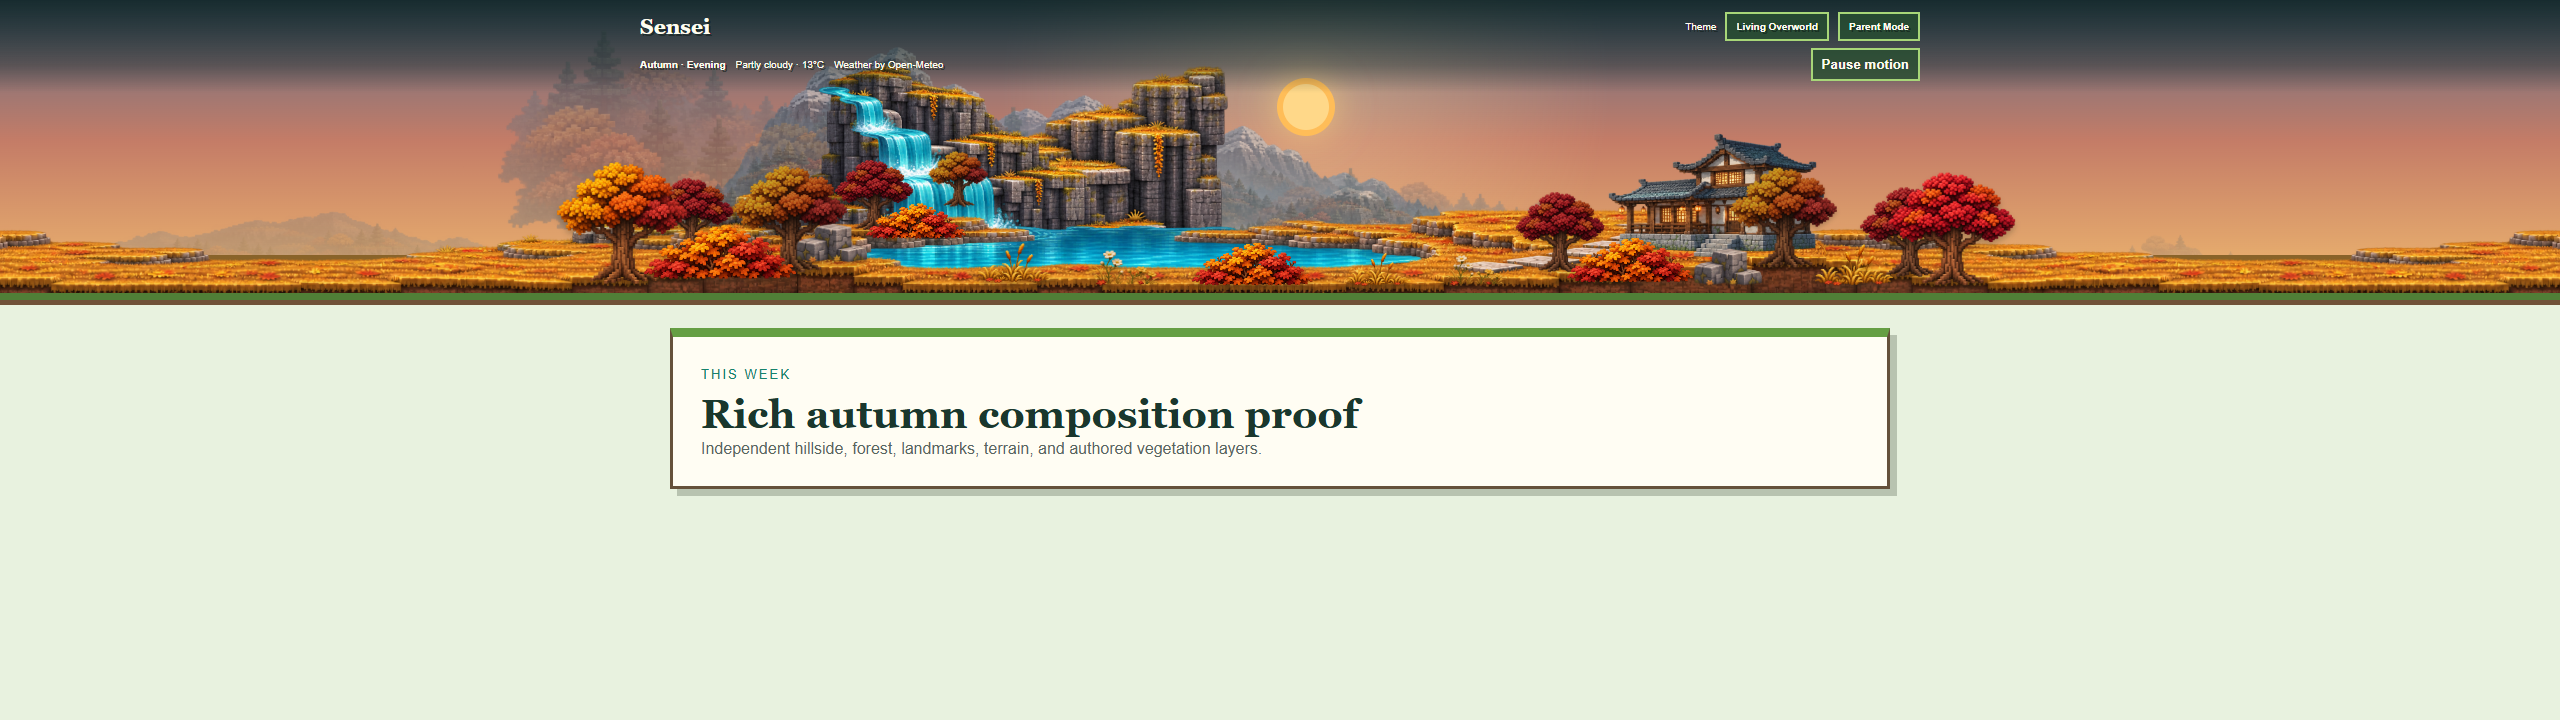
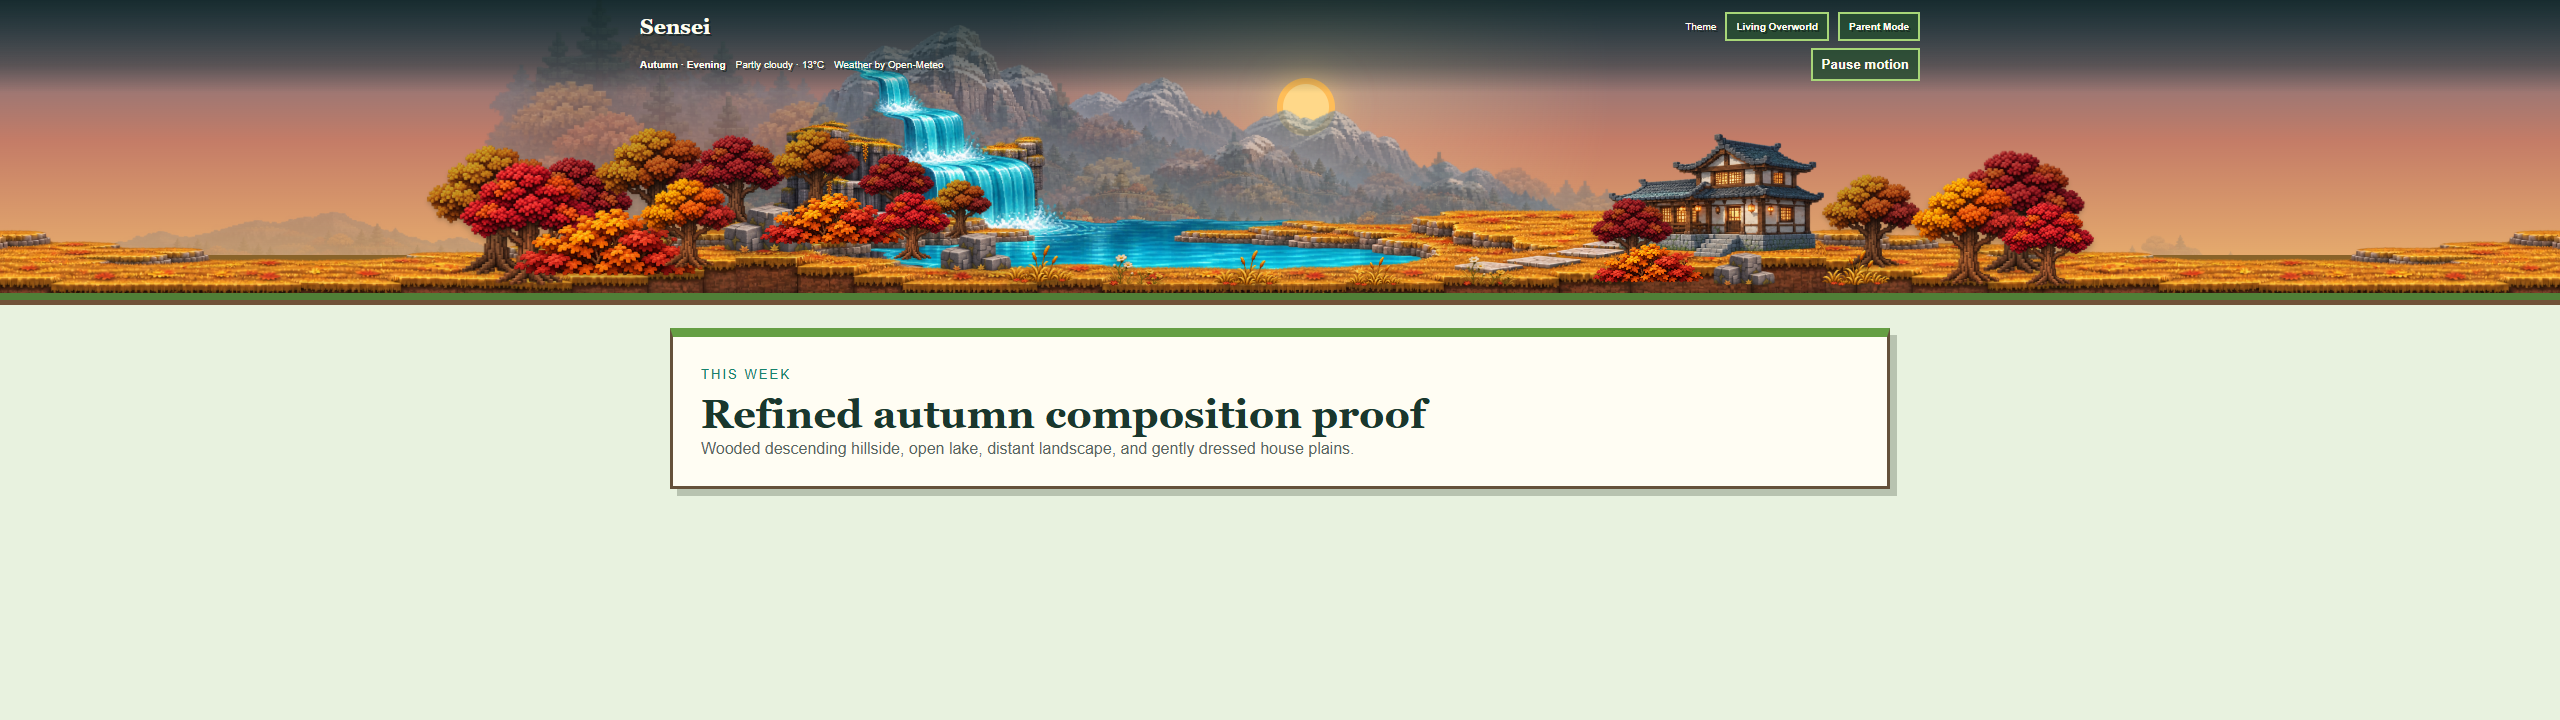
art: refine rich autumn landscape composition

Changed region(s): [[0.1562, 0.0611, 0.8125, 0.3972], [0.2812, 0.55, 0.5625, 0.6417]]

diff --git a/docs/prototypes/living-overworld-autumn-rich.html b/docs/prototypes/living-overworld-autumn-rich.html
@@ -3,7 +3,7 @@
 <head>
   <meta charset="utf-8">
   <meta name="viewport" content="width=device-width, initial-scale=1">
-  <title>Living Overworld rich autumn proof</title>
+  <title>Living Overworld refined autumn proof</title>
   <style>
     * { box-sizing: border-box; }
     html, body { margin: 0; min-height: 100%; background: #e8f2df; color: #fffdf0; font-family: Arial, sans-serif; }
@@ -12,22 +12,20 @@
     .sun { position: absolute; z-index: 1; left: 51%; top: 78px; translate: -50%; width: 58px; aspect-ratio: 1; border-radius: 50%; background: #ffd889; border: 6px solid #ffbd58; box-shadow: 0 0 35px rgba(255,214,125,.62); }
     .layer { position: absolute; height: auto; pointer-events: none; user-select: none; }
     .mountain { z-index: 2; bottom: -3px; opacity: .68; filter: saturate(.64) brightness(.82); }
-    .mountain.primary { left: 42%; width: 900px; translate: -50%; }
+    .mountain.primary { left: 45%; width: 980px; translate: -50%; }
     .mountain.left { left: -150px; bottom: -25px; width: 690px; opacity: .27; }
     .mountain.right { right: -110px; bottom: -36px; width: 620px; opacity: .2; }
-    .forest { z-index: 3; left: 41%; bottom: -4px; width: 1120px; translate: -50%; opacity: .42; filter: saturate(.72) brightness(.75); }
+    .forest { z-index: 3; left: 43%; bottom: -4px; width: 1260px; translate: -50%; opacity: .5; filter: saturate(.72) brightness(.75); }
     .ground-band { position: absolute; z-index: 3; left: 0; right: 0; bottom: 0; height: 38px; background: linear-gradient(#896329 0 18%, #6f4d2a 19% 34%, #4c351f 35%); }
-    .hillside { z-index: 4; left: calc(50% - 880px); bottom: -6px; width: 850px; }
-    .water-system { position: absolute; z-index: 5; left: calc(50% - 520px); bottom: 0; width: 760px; aspect-ratio: 3 / 1; }
-    .water-system img { position: absolute; inset: 0; width: 100%; height: 100%; object-fit: contain; }
-    .water-system .outcrop { z-index: 1; }
-    .water-system .water { z-index: 2; }
+    .hillside { z-index: 4; left: calc(50% - 800px); bottom: -2px; width: 580px; }
+    .outcrop { z-index: 5; left: calc(50% - 545px); bottom: 1px; width: 570px; }
+    .water { z-index: 6; left: calc(50% - 510px); bottom: -2px; width: 860px; }
     .meadow { z-index: 6; bottom: -20px; width: 1100px; }
     .meadow.left { right: calc(50% + 500px); }
     .meadow.right { left: calc(50% + 500px); transform: scaleX(-1); }
     .ground { z-index: 7; left: 50%; bottom: -20px; width: min(1100px, 100vw); translate: -50%; }
     .house { z-index: 8; right: calc(50% - 560px); bottom: -20px; width: 760px; }
-    .object-stage { position: absolute; z-index: 9; inset-block: 0; left: 50%; width: min(1400px, 100vw); translate: -50%; pointer-events: none; }
+    .object-stage { position: absolute; z-index: 9; inset-block: 0; left: 50%; width: min(1600px, 100vw); translate: -50%; pointer-events: none; }
     .scene-object { position: absolute; left: var(--x); bottom: var(--b); height: var(--h); width: auto; translate: -50%; filter: drop-shadow(0 4px 3px rgba(20,34,22,.24)); }
     .scene-object.back { z-index: 1; filter: brightness(.82) saturate(.84) drop-shadow(0 3px 2px rgba(20,34,22,.18)); }
     .scene-object.front { z-index: 3; }
@@ -50,8 +48,9 @@
       .mountain.left, .mountain.right { display: none; }
       .forest { left: 42%; width: 500px; bottom: -1px; opacity: .34; }
       .ground-band { height: 20px; }
-      .hillside { left: -260px; bottom: 0; width: 400px; }
-      .water-system { left: -2px; bottom: 4px; width: 390px; }
+      .hillside { left: -125px; bottom: 2px; width: 285px; }
+      .outcrop { left: -50px; bottom: 5px; width: 305px; }
+      .water { left: -8px; bottom: 2px; width: 420px; }
       .meadow { display: none; }
       .ground { width: 435px; bottom: -5px; }
       .house { right: -8px; bottom: -2px; width: 365px; }
@@ -71,7 +70,7 @@
   </style>
 </head>
 <body>
-  <section class="scene" aria-label="Rich autumn Living Overworld composition proof">
+  <section class="scene" aria-label="Refined rich autumn Living Overworld composition proof">
     <div class="sky-glow"></div><div class="sun"></div>
     <img class="layer mountain left" src="../../public/assets/living-overworld/autumn-modular/distant-a.png" alt="">
     <img class="layer mountain primary" src="../../public/assets/living-overworld/autumn-structural/mountains.png" alt="">
@@ -79,42 +78,47 @@
     <img class="layer forest" src="../../public/assets/living-overworld/autumn-rich-proof/distant-forest.png" alt="">
     <div class="ground-band"></div>
     <img class="layer hillside" src="../../public/assets/living-overworld/autumn-rich-proof/rocky-hillside.png" alt="">
-    <div class="water-system">
-      <img class="outcrop" src="../../public/assets/living-overworld/autumn-structural/waterfall-outcrop.png" alt="">
-      <img class="water" src="../../public/assets/living-overworld/autumn-structural/water-connected.png" alt="">
-    </div>
+    <img class="layer outcrop" src="../../public/assets/living-overworld/autumn-structural/waterfall-outcrop.png" alt="">
+    <img class="layer water" src="../../public/assets/living-overworld/autumn-structural/water-connected.png" alt="">
     <img class="layer meadow left" src="../../public/assets/living-overworld/autumn-structural/meadow-extension.png" alt="">
     <img class="layer meadow right" src="../../public/assets/living-overworld/autumn-structural/meadow-extension.png" alt="">
     <img class="layer ground" src="../../public/assets/living-overworld/autumn-structural/ground.png" alt="">
     <img class="layer house" src="../../public/assets/living-overworld/retreat.png" alt="">
     <div class="object-stage">
-      <img class="scene-object back desktop-detail" style="--x:8%;--b:13%;--h:78px" src="../../public/assets/living-overworld/autumn-modular/objects/tree-red.png" alt="">
-      <img class="scene-object back" style="--x:15%;--b:6%;--h:112px" src="../../public/assets/living-overworld/autumn-modular/objects/tree.png" alt="">
-      <img class="scene-object back desktop-detail" style="--x:21%;--b:21%;--h:72px" src="../../public/assets/living-overworld/autumn-modular/objects/tree-red.png" alt="">
-      <img class="scene-object back desktop-detail" style="--x:27%;--b:29%;--h:58px" src="../../public/assets/living-overworld/autumn-modular/objects/tree.png" alt="">
-      <img class="scene-object back" style="--x:70%;--b:7%;--h:82px" src="../../public/assets/living-overworld/autumn-modular/objects/tree-red.png" alt="">
-      <img class="scene-object back desktop-detail" style="--x:86%;--b:8%;--h:105px" src="../../public/assets/living-overworld/autumn-modular/objects/tree.png" alt="">
-      <img class="scene-object back desktop-detail wide-only" style="--x:95%;--b:5%;--h:92px" src="../../public/assets/living-overworld/autumn-modular/objects/tree-red.png" alt="">
+      <img class="scene-object back" style="--x:1%;--b:5%;--h:136px" src="../../public/assets/living-overworld/autumn-modular/objects/tree.png" alt="">
+      <img class="scene-object back desktop-detail" style="--x:6%;--b:11%;--h:105px" src="../../public/assets/living-overworld/autumn-modular/objects/tree-red.png" alt="">
+      <img class="scene-object back" style="--x:11%;--b:17%;--h:118px" src="../../public/assets/living-overworld/autumn-modular/objects/tree.png" alt="">
+      <img class="scene-object back desktop-detail" style="--x:16%;--b:23%;--h:92px" src="../../public/assets/living-overworld/autumn-modular/objects/tree-red.png" alt="">
+      <img class="scene-object back" style="--x:21%;--b:27%;--h:87px" src="../../public/assets/living-overworld/autumn-modular/objects/tree.png" alt="">
+      <img class="scene-object back desktop-detail" style="--x:26%;--b:24%;--h:70px" src="../../public/assets/living-overworld/autumn-modular/objects/tree-red.png" alt="">
+      <img class="scene-object back desktop-detail" style="--x:30%;--b:18%;--h:62px" src="../../public/assets/living-overworld/autumn-modular/objects/tree.png" alt="">
+      <img class="scene-object back" style="--x:72%;--b:7%;--h:76px" src="../../public/assets/living-overworld/autumn-modular/objects/tree-red.png" alt="">
+      <img class="scene-object back desktop-detail" style="--x:87%;--b:8%;--h:98px" src="../../public/assets/living-overworld/autumn-modular/objects/tree.png" alt="">
+      <img class="scene-object back wide-only" style="--x:96%;--b:6%;--h:126px" src="../../public/assets/living-overworld/autumn-modular/objects/tree-red.png" alt="">
 
-      <img class="scene-object front" style="--x:3%;--b:2%;--h:128px" src="../../public/assets/living-overworld/autumn-modular/objects/tree.png" alt="">
-      <img class="scene-object front desktop-detail" style="--x:10%;--b:4%;--h:58px" src="../../public/assets/living-overworld/autumn-modular/objects/bush.png" alt="">
-      <img class="scene-object front desktop-detail" style="--x:18%;--b:10%;--h:42px" src="../../public/assets/living-overworld/autumn-modular/objects/rock.png" alt="">
-      <img class="scene-object front desktop-detail" style="--x:24%;--b:18%;--h:38px" src="../../public/assets/living-overworld/autumn-modular/objects/bush.png" alt="">
-      <img class="scene-object front" style="--x:31%;--b:3%;--h:42px" src="../../public/assets/living-overworld/autumn-modular/objects/grass.png" alt="">
-      <img class="scene-object front" style="--x:39%;--b:2%;--h:38px" src="../../public/assets/living-overworld/autumn-modular/objects/flowers.png" alt="">
-      <img class="scene-object front desktop-detail" style="--x:48%;--b:2%;--h:46px" src="../../public/assets/living-overworld/autumn-modular/objects/bush.png" alt="">
-      <img class="scene-object front" style="--x:57%;--b:2%;--h:35px" src="../../public/assets/living-overworld/autumn-modular/objects/grass.png" alt="">
-      <img class="scene-object front desktop-detail" style="--x:64%;--b:2%;--h:33px" src="../../public/assets/living-overworld/autumn-modular/objects/flowers.png" alt="">
-      <img class="scene-object front" style="--x:75%;--b:3%;--h:48px" src="../../public/assets/living-overworld/autumn-modular/objects/bush.png" alt="">
-      <img class="scene-object front desktop-detail" style="--x:82%;--b:2%;--h:40px" src="../../public/assets/living-overworld/autumn-modular/objects/rock.png" alt="">
-      <img class="scene-object front" style="--x:91%;--b:2%;--h:44px" src="../../public/assets/living-overworld/autumn-modular/objects/grass.png" alt="">
-      <img class="scene-object front desktop-detail wide-only" style="--x:98%;--b:2%;--h:116px" src="../../public/assets/living-overworld/autumn-modular/objects/tree-red.png" alt="">
+      <img class="scene-object front" style="--x:3%;--b:2%;--h:126px" src="../../public/assets/living-overworld/autumn-modular/objects/tree-red.png" alt="">
+      <img class="scene-object front desktop-detail" style="--x:8%;--b:5%;--h:72px" src="../../public/assets/living-overworld/autumn-modular/objects/bush.png" alt="">
+      <img class="scene-object front" style="--x:13%;--b:8%;--h:94px" src="../../public/assets/living-overworld/autumn-modular/objects/tree.png" alt="">
+      <img class="scene-object front desktop-detail" style="--x:18%;--b:13%;--h:52px" src="../../public/assets/living-overworld/autumn-modular/objects/rock.png" alt="">
+      <img class="scene-object front desktop-detail" style="--x:22%;--b:16%;--h:55px" src="../../public/assets/living-overworld/autumn-modular/objects/bush.png" alt="">
+      <img class="scene-object front" style="--x:27%;--b:11%;--h:70px" src="../../public/assets/living-overworld/autumn-modular/objects/tree-red.png" alt="">
+      <img class="scene-object front desktop-detail" style="--x:31%;--b:7%;--h:42px" src="../../public/assets/living-overworld/autumn-modular/objects/rock.png" alt="">
+      <img class="scene-object front" style="--x:35%;--b:3%;--h:40px" src="../../public/assets/living-overworld/autumn-modular/objects/grass.png" alt="">
+      <img class="scene-object front" style="--x:41%;--b:2%;--h:34px" src="../../public/assets/living-overworld/autumn-modular/objects/flowers.png" alt="">
+      <img class="scene-object front desktop-detail" style="--x:48%;--b:2%;--h:38px" src="../../public/assets/living-overworld/autumn-modular/objects/grass.png" alt="">
+      <img class="scene-object front" style="--x:56%;--b:2%;--h:31px" src="../../public/assets/living-overworld/autumn-modular/objects/grass.png" alt="">
+      <img class="scene-object front desktop-detail" style="--x:63%;--b:2%;--h:32px" src="../../public/assets/living-overworld/autumn-modular/objects/flowers.png" alt="">
+      <img class="scene-object front" style="--x:73%;--b:3%;--h:42px" src="../../public/assets/living-overworld/autumn-modular/objects/bush.png" alt="">
+      <img class="scene-object front desktop-detail" style="--x:79%;--b:2%;--h:36px" src="../../public/assets/living-overworld/autumn-modular/objects/rock.png" alt="">
+      <img class="scene-object front" style="--x:86%;--b:2%;--h:38px" src="../../public/assets/living-overworld/autumn-modular/objects/grass.png" alt="">
+      <img class="scene-object front wide-only" style="--x:93%;--b:2%;--h:112px" src="../../public/assets/living-overworld/autumn-modular/objects/tree.png" alt="">
+      <img class="scene-object front desktop-detail wide-only" style="--x:98%;--b:2%;--h:85px" src="../../public/assets/living-overworld/autumn-modular/objects/tree-red.png" alt="">
     </div>
     <header class="header">
       <div class="header-main"><span class="brand">Sensei</span><div class="header-actions"><span>Theme</span><span class="control">Living Overworld</span><span class="control">Parent Mode</span></div></div>
       <div class="header-status"><strong>Autumn · Evening</strong><span>Partly cloudy · 13°C</span><span>Weather by Open-Meteo</span><button class="control motion" type="button">Pause motion</button></div>
     </header>
   </section>
-  <main><small>This week</small><h1>Rich autumn composition proof</h1><p>Independent hillside, forest, landmarks, terrain, and authored vegetation layers.</p></main>
+  <main><small>This week</small><h1>Refined autumn composition proof</h1><p>Wooded descending hillside, open lake, distant landscape, and gently dressed house plains.</p></main>
 </body>
 </html>

diff --git a/docs/LIVING_OVERWORLD_AUTUMN_REFINEMENT_HANDOFF.md b/docs/LIVING_OVERWORLD_AUTUMN_REFINEMENT_HANDOFF.md
@@ -1,0 +1,46 @@
+# Living Overworld — Autumn Composition Refinement
+
+Status: refined isolated proof ready for Product Owner visual review. Runtime integration remains unauthorized and has not occurred.
+
+## Reference interpretation
+
+The supplied visual reference was used only for arrangement, depth, and density. It was not copied into the project or flattened into the scene. The revised proof remains a composition of independent structural and environmental assets.
+
+## Material changes
+
+- Reduced the waterfall/outcrop presentation from 760px to 570px at the desktop proof scale, an approximately 25% reduction.
+- Separated the waterfall formation from the water layer so the lake could remain broad and visually dominant.
+- Reduced the previous 850px rocky connector to a 580px supporting terrain element.
+- Moved the waterfall visually into the midground, exposing more mountain and forest depth behind it.
+- Rebuilt the left side as a dense authored woodland with overlapping trees, bushes, rocks, grasses, and descending elevation cues.
+- Kept large trees away from the central lake view.
+- Retained flatter, more open plains around the house, with tree clusters concentrated at the outer edge.
+- Preserved the complete house, path, central celestial opening, controlled scene heights, and future creature corridors.
+
+No additional raster asset was necessary for this refinement. The existing structural layers and modular object collection were sufficient.
+
+## Visual evidence
+
+- [390px mobile](assets/screenshots/living-overworld-autumn-rich-mobile.png)
+- [1100px desktop](assets/screenshots/living-overworld-autumn-rich-desktop-1100.png)
+- [1920px desktop](assets/screenshots/living-overworld-autumn-rich-desktop-1920.png)
+- [32:9 ultrawide](assets/screenshots/living-overworld-autumn-rich-ultrawide-32x9.png)
+
+## Verification
+
+- All image layers load at all four evaluation viewports.
+- No horizontal overflow occurs.
+- Scene height remains 175px at 390px and 300px at desktop/ultrawide sizes.
+- No page or browser-console errors were observed by the capture check.
+- The house, waterfall, lake, major mountain groups, and central celestial opening remain visible on desktop and mobile.
+
+## Known proof limitations
+
+- The dense left woodland intentionally prioritizes richness; exact object pruning and runtime occlusion should wait for visual approval.
+- The proof uses static evening lighting and does not exercise live weather or creature animation.
+- The current hillside connector remains one structural raster layer, while the recognizable vegetation and detail objects remain independently replaceable.
+- Ultrawide edges remain intentionally quiet rather than stretching or repeating the landmarks.
+
+## Continuation point
+
+If the Product Owner accepts this composition, the next separately authorized task is runtime integration: translate the approved proof positions into existing Living Overworld scene metadata, retain responsive visibility rules, validate weather and creature layering, and run the full application regression suite. If composition changes are requested, continue editing only the isolated proof and refresh the same paired evidence.
